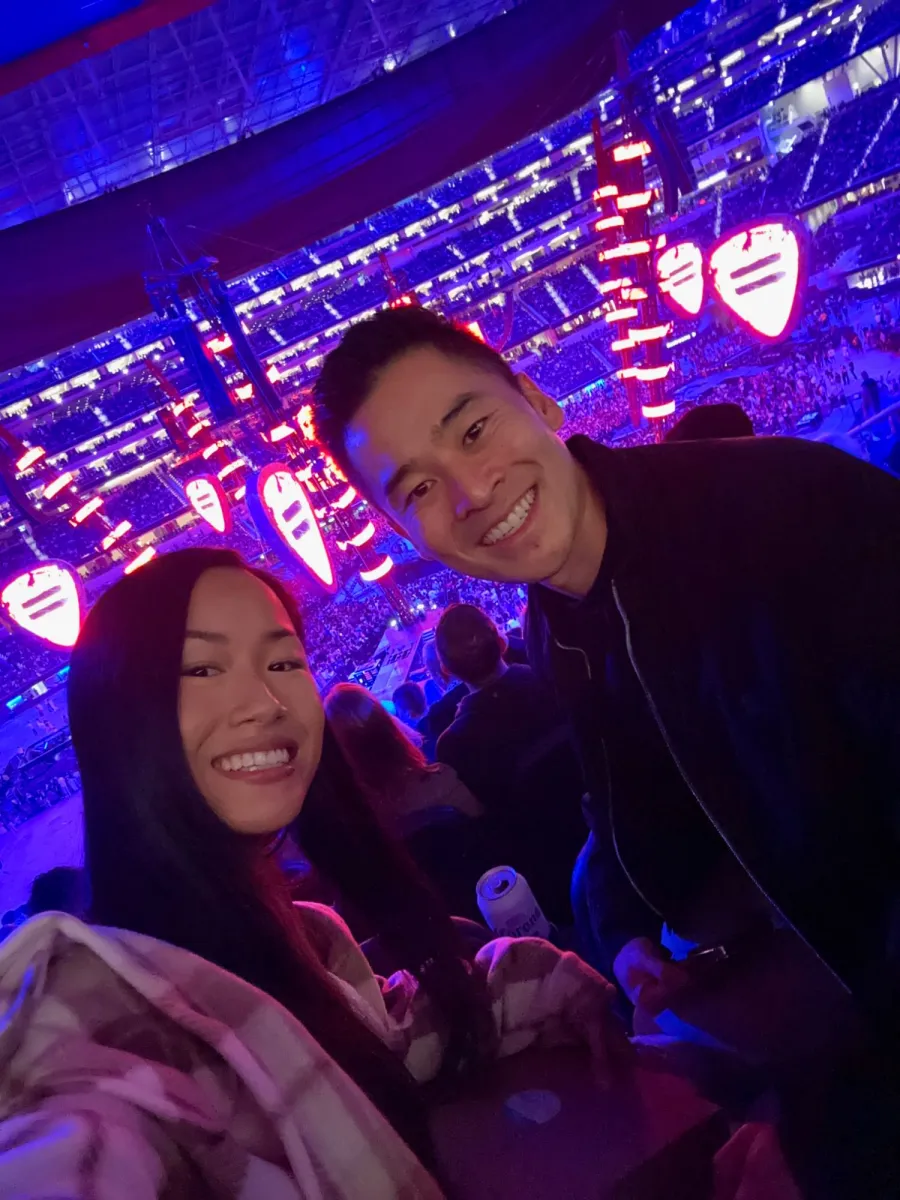
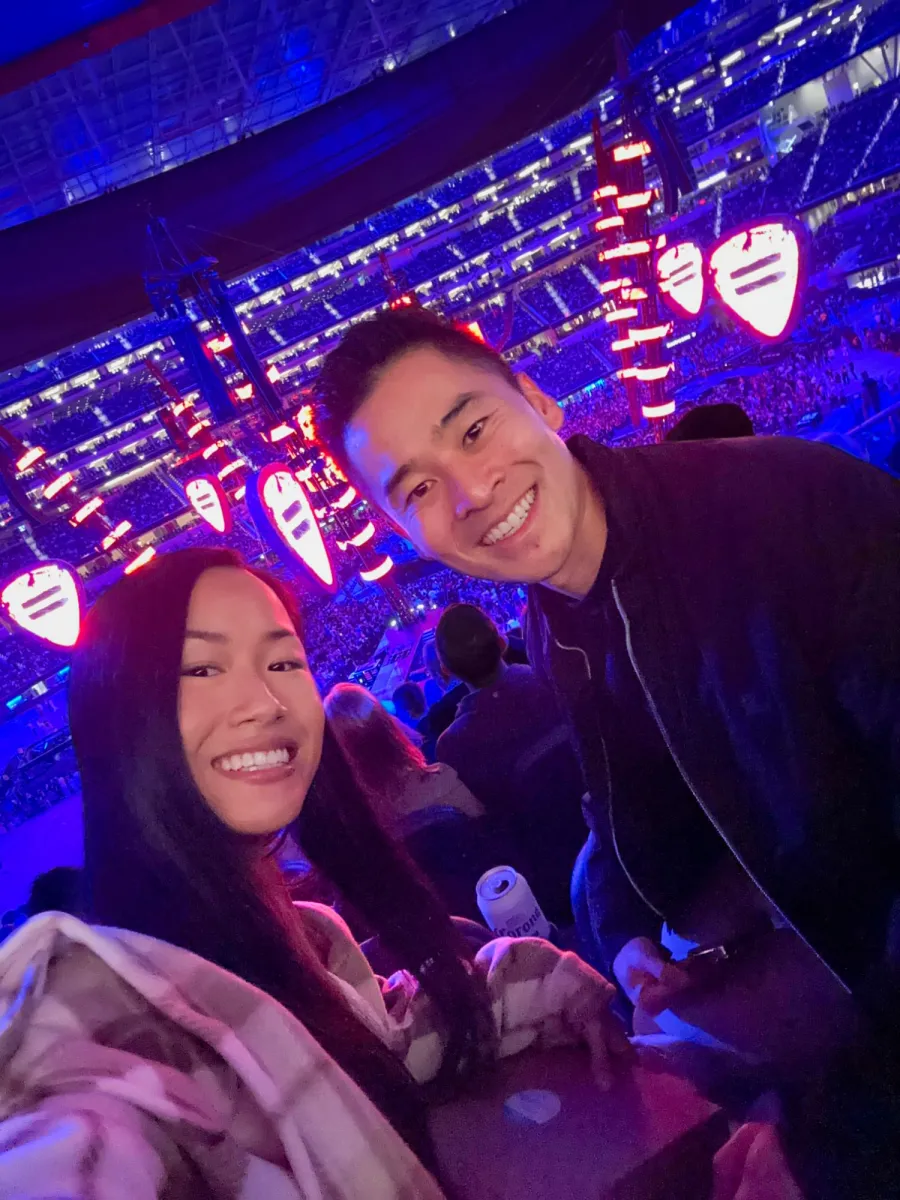
Envelope pocket follows the art's bottom flap so the fold lines meet cleanly; caption reads 'A place to celebrate' in EB Garamond, as does the FAQ intro; welcome party at 5:00 PM, 'Wedding Ceremony' on the map; cat parents art under the countdown; new concert print
Claude-Session: https://claude.ai/code/session_01GqK2ENqeRUwQmtgcSZFd9X

diff --git a/index.html b/index.html
@@ -29,8 +29,8 @@
 <link rel="preload" as="image" href="assets/bali-cliff.webp" imagesrcset="assets/bali-cliff-m.webp 800w, assets/bali-cliff.webp 941w" imagesizes="100vw" fetchpriority="high">
 <link rel="preload" as="image" href="assets/envelope-sealed.webp" fetchpriority="high">
 <link rel="preload" as="image" href="assets/seal.webp" fetchpriority="high">
-<link href="https://fonts.googleapis.com/css2?family=Instrument+Sans:wght@400;500&family=Instrument+Serif:ital@0;1&family=Carattere&family=Roboto+Mono:wght@400;500&display=swap" rel="stylesheet" media="print" onload="this.media='all'">
-<noscript><link href="https://fonts.googleapis.com/css2?family=Instrument+Sans:wght@400;500&family=Instrument+Serif:ital@0;1&family=Carattere&family=Roboto+Mono:wght@400;500&display=swap" rel="stylesheet"></noscript>
+<link href="https://fonts.googleapis.com/css2?family=Instrument+Sans:wght@400;500&family=Instrument+Serif:ital@0;1&family=EB+Garamond:wght@400;500&family=Carattere&family=Roboto+Mono:wght@400;500&display=swap" rel="stylesheet" media="print" onload="this.media='all'">
+<noscript><link href="https://fonts.googleapis.com/css2?family=Instrument+Sans:wght@400;500&family=Instrument+Serif:ital@0;1&family=EB+Garamond:wght@400;500&family=Carattere&family=Roboto+Mono:wght@400;500&display=swap" rel="stylesheet"></noscript>
 <style>
 /* ---------------------------------------------------------------------------
    Tokens
@@ -148,7 +148,7 @@ button,input,select,textarea{font:inherit;color:inherit}
 .cap-top{top:max(8.5%,calc(env(safe-area-inset-top) + 44px))}
 .cap-top::before{content:"";position:absolute;left:50%;top:50%;width:min(96vw,560px);height:150%;transform:translate(-50%,-50%);z-index:-1;
   background:radial-gradient(ellipse at center,rgba(244,239,229,.88) 0%,rgba(244,239,229,.72) 42%,rgba(244,239,229,0) 74%)}
-.cap .caps{display:block;font-family:var(--serif);font-size:clamp(15px,4vw,19px);letter-spacing:.34em;text-transform:uppercase;line-height:1.5;padding-left:.34em}
+.cap .caps{display:block;font-family:'EB Garamond',var(--serif);font-weight:500;font-size:clamp(15px,4vw,19px);letter-spacing:.34em;text-transform:uppercase;line-height:1.5;padding-left:.34em}
 .cap .rule{display:block;width:34px;height:1px;background:var(--husk);margin:.75em auto;opacity:.8}
 .cap .cap-sub{font-size:clamp(13px,3.4vw,15px);letter-spacing:.22em;padding-left:.22em}
 .cap .script{display:block;font-family:var(--script);font-size:clamp(30px,8.6vw,42px);line-height:1;color:var(--ink)}
@@ -235,7 +235,7 @@ button,input,select,textarea{font:inherit;color:inherit}
 .env{width:var(--ew);height:var(--eh);margin-left:calc(var(--ew) / -2);margin-top:calc(var(--eh) / -2)}
 .env-back{z-index:2;background:#E3DBC9;border-radius:6px;box-shadow:0 16px 36px -10px rgba(45,35,20,.42),0 3px 8px rgba(45,35,20,.16)}
 .env-pocket{z-index:3;border-radius:6px;overflow:hidden;background:#EDE6D8 center/100% 100% no-repeat;
-  clip-path:polygon(0 0,49.96% 60.96%,100% 0,100% 100%,0 100%);-webkit-clip-path:polygon(0 0,49.96% 60.96%,100% 0,100% 100%,0 100%)}
+  clip-path:polygon(0 0,45.26% 55.27%,50% 50.63%,54.74% 55.27%,100% 0,100% 100%,0 100%);-webkit-clip-path:polygon(0 0,45.26% 55.27%,50% 50.63%,54.74% 55.27%,100% 0,100% 100%,0 100%)}
 .env-pocket .addr{
   position:absolute;left:8%;right:44%;bottom:7%;text-align:center;
   font-family:var(--script);font-size:clamp(19px,5.2vw,26px);color:#6B6558;
@@ -484,6 +484,7 @@ html.has-lightbox{overflow:hidden}
 
 /* The date */
 .date-grid{display:grid;gap:clamp(24px,5vw,44px);align-items:start}
+.date-art{display:block;width:min(78%,420px);height:auto;margin:clamp(18px,3vh,30px) auto .4em}
 .countdown{display:grid;grid-template-columns:repeat(3,minmax(0,1fr));gap:12px;max-width:360px;margin-top:.4em}
 /* quiet links: calendar, directions */
 .quiet-links{margin:.7em 0 1.5em;display:flex;flex-wrap:wrap;justify-content:center;gap:.6em 1.5em}
@@ -608,7 +609,7 @@ html.has-lightbox{overflow:hidden}
 .fq-head .script-line{font-size:max(34px,calc(var(--pw2) * .08))}
 .fq-head .mt-rule{width:calc(var(--pw2) * .72);max-width:calc(100% - 8px);margin:.45em auto .6em}
 .fq-head .mt-rule::after{width:18px;height:18px;top:-9px;border-radius:0;background:var(--bloom) center/contain no-repeat}
-.fq-sub{font-family:var(--serif);font-size:max(13px,calc(var(--pw2) * .019));letter-spacing:.16em;text-transform:uppercase;line-height:1.65;max-width:none;margin:0 auto;padding-left:.16em}
+.fq-sub{font-family:'EB Garamond',var(--serif);font-weight:500;font-size:max(13px,calc(var(--pw2) * .019));letter-spacing:.16em;text-transform:uppercase;line-height:1.65;max-width:none;margin:0 auto;padding-left:.16em}
 .fq-list{list-style:none;margin:0;padding:0;text-align:left}
 .fq{position:relative;display:grid;grid-template-columns:32% 1fr;gap:calc(var(--pw2) * .035);align-items:center;padding:calc(var(--pw2) * .028) 0;border-top:1px solid rgba(155,139,87,.35)}
 .fq:first-child{border-top:0}
@@ -711,7 +712,7 @@ html.has-lightbox{overflow:hidden}
       <div class="scrim scrim-bottom" id="scrimBottom" aria-hidden="true"></div>
 
 
-      <div class="cap cap-top" id="capTop" aria-hidden="true"><span class="caps">A journey<br>to forever</span><i class="rule"></i><span class="script">Bali, Indonesia</span><i class="rule"></i><span class="caps cap-sub">You’re invited · August 28, 2027</span></div>
+      <div class="cap cap-top" id="capTop" aria-hidden="true"><span class="caps">A place<br>to celebrate</span><i class="rule"></i><span class="script">Bali, Indonesia</span><i class="rule"></i><span class="caps cap-sub">You’re invited · August 28, 2027</span></div>
 
 
       <!-- Envelope, open: back, pocket, flap. Same transform on all. -->
@@ -745,7 +746,7 @@ html.has-lightbox{overflow:hidden}
 
       <!-- Passport -->
       <div class="piece pc-book" id="pcBook"><div class="passport" id="passport">
-        <div class="pp-page pp-art art-itin pp-base" role="img" aria-label="August 27: welcome party at Rock Bar from 5:30 PM, with our tea ceremony at 6:00 PM, then drinks and dinner with cliffside views. August 28: wedding ceremony, reception."></div>
+        <div class="pp-page pp-art art-itin pp-base" role="img" aria-label="August 27: welcome party at Rock Bar from 5:00 PM, with our tea ceremony at 6:00 PM, then drinks and dinner with cliffside views. August 28: wedding ceremony, reception."></div>
         <div class="pp-leaf" data-leaf="1">
           <div class="pp-page leaf-front">
           <div class="pp-head">
@@ -870,6 +871,7 @@ html.has-lightbox{overflow:hidden}
           <div><b id="cdM">—</b><span>min</span></div>
         </div>
       </div>
+      <img class="date-art" data-src="assets/cat-parents.webp" alt="Two cats, a tabby and a white one with bows, sitting tail-in-tail on vintage suitcases beside a passport, a boarding pass, a pocket watch, two gold rings and frangipani, with a luggage tag reading Cat parents for life." width="900" height="805" loading="lazy" decoding="async">
       <p class="muted" style="max-width:36ch;margin-left:auto;margin-right:auto">Friday the 27th is the welcome party at Rock Bar, with our tea ceremony at six. Saturday the 28th is the ceremony and reception on the cliff. Sunday is yours.</p>
     </div>
   </div>
@@ -901,7 +903,7 @@ html.has-lightbox{overflow:hidden}
       <div class="mp-ev" id="mev1">
         <img class="mp mp-ill" data-src="assets/map-e1.webp" style="left:0.25%;top:6.97%;width:50.38%" alt="Cocktails and a lantern on the cliff terrace at Rock Bar, the sun setting over the sea." loading="lazy" decoding="async">
         <span class="mp-badge" style="left:7.43%;top:15.49%">01</span>
-        <div class="mp-text" style="left:3.5%;top:27.2%;width:44%"><b>August 27</b><b>5:30&nbsp;PM</b><i class="mt-rule"></i><strong>Welcome Party</strong><small>at Rock Bar</small></div>
+        <div class="mp-text" style="left:3.5%;top:27.2%;width:44%"><b>August 27</b><b>5:00&nbsp;PM</b><i class="mt-rule"></i><strong>Welcome Party</strong><small>at Rock Bar</small></div>
       </div>
       <div class="mp-ev" id="mev2">
         <img class="mp mp-ill" data-src="assets/map-e2.webp" style="left:53.15%;top:31.84%;width:32.75%" alt="A red and gold Chinese tea set with cherry blossom." loading="lazy" decoding="async">
@@ -911,7 +913,7 @@ html.has-lightbox{overflow:hidden}
       <div class="mp-ev" id="mev3">
         <img class="mp mp-ill" data-src="assets/map-e3.webp" style="left:36.78%;top:54.44%;width:49.12%" alt="A flower-covered arch and white chairs above the ocean at sunset." loading="lazy" decoding="async">
         <span class="mp-badge" style="left:38.92%;top:54.94%">03</span>
-        <div class="mp-text" style="left:41%;top:68.2%;width:42%"><b>August 28</b><b>4:30&nbsp;PM</b><i class="mt-rule"></i><strong>Ceremony</strong><small>AYANA SKY</small></div>
+        <div class="mp-text" style="left:41%;top:68.2%;width:42%"><b>August 28</b><b>4:30&nbsp;PM</b><i class="mt-rule"></i><strong>Wedding Ceremony</strong><small>AYANA SKY</small></div>
       </div>
       <div class="mp-ev" id="mev4">
         <img class="mp mp-ill" data-src="assets/map-e4.webp" style="left:58.5%;top:71.2%;width:38.5%" alt="A candlelit dinner table under hanging lanterns and flowers." loading="lazy" decoding="async">
@@ -1095,7 +1097,7 @@ html.has-lightbox{overflow:hidden}
       <p>Thank you. Your reply is in, and we'll be in touch with booking details for the estate and a few notes on getting to Bali.</p>
       <span class="confirm-lead">Save the weekend</span>
       <p class="quiet-links">
-        <a class="qlink" href="https://calendar.google.com/calendar/render?action=TEMPLATE&amp;text=Ashley+%26+Charles+%C2%B7+Wedding+weekend+in+Bali&amp;dates=20270827T093000Z%2F20270828T150000Z&amp;ctz=Asia%2FMakassar&amp;location=AYANA+Bali%2C+Jimbaran%2C+Bali%2C+Indonesia&amp;details=Friday+Aug+27%2C+5%3A30+PM%3A+welcome+party+at+Rock+Bar+(tea+ceremony+at+6%3A00+PM).%0ASaturday+Aug+28%2C+4%3A30+PM%3A+ceremony+at+AYANA+SKY%2C+then+dinner+and+dancing.%0Ahttps%3A%2F%2Fctaira.github.io" target="_blank" rel="noopener">Google Calendar</a>
+        <a class="qlink" href="https://calendar.google.com/calendar/render?action=TEMPLATE&amp;text=Ashley+%26+Charles+%C2%B7+Wedding+weekend+in+Bali&amp;dates=20270827T090000Z%2F20270828T150000Z&amp;ctz=Asia%2FMakassar&amp;location=AYANA+Bali%2C+Jimbaran%2C+Bali%2C+Indonesia&amp;details=Friday+Aug+27%2C+5%3A00+PM%3A+welcome+party+at+Rock+Bar+(tea+ceremony+at+6%3A00+PM).%0ASaturday+Aug+28%2C+4%3A30+PM%3A+ceremony+at+AYANA+SKY%2C+then+dinner+and+dancing.%0Ahttps%3A%2F%2Fctaira.github.io" target="_blank" rel="noopener">Google Calendar</a>
         <a class="qlink" id="icsLink" href="#" download="ashley-and-charles-bali.ics">Apple / Outlook</a>
         <a class="qlink" href="https://www.google.com/maps/search/?api=1&amp;query=AYANA+Resort+Bali%2C+Jimbaran" target="_blank" rel="noopener">Directions</a>
       </p>
@@ -1271,8 +1273,8 @@ var RSVP_ENDPOINT = "";
       T_HOLD = T_BOOK + (mobileSpread ? 12000 : 8400); END = T_HOLD; DIVE = END + 1000;   /* the film rests at END until the guest goes on */
       CPS = [0, T_TICKET, T_BOOK, T_PAGES, T_HOLD];
       var envTop = envY - eh / 2;
-      /* the pocket's edge: a V from the envelope's top corners down to the notch */
-      V = { lx: -ew / 2, ly: envTop, nx: -ew * .0004, ny: envTop + eh * .6096, rx: ew / 2, ry: envTop };
+      /* the pocket's edge: from the top corners down the side flaps to where the bottom flap's edges cross them, then up to the bottom flap's tip */
+      V = { lx: -ew / 2, ly: envTop, ax: -ew * .0474, ay: envTop + eh * .5527, nx: 0, ny: envTop + eh * .5063, bx: ew * .0474, by: envTop + eh * .5527, rx: ew / 2, ry: envTop };
       var tw = ew * .92, th = tw * .4374, pw0 = ew * .60, ph0 = pw0 * 1.16, s0 = ew * .50 / ppW;
       /* where each rests once the flap is open (sealed, each sits lower, wholly inside), where it is held, and how far it sinks when sealed */
       PH = piece(pcPhoto, polaroid, pw0, ph0, { x: ew * .07, y: envTop - eh * .16 + ph0 / 2, s: 1, r: 2 }, { x: 0, y: -vh * .03, s: Math.min(1.4, (vw - 24) / pw0, vh * .62 / ph0), r: 0 }, envTop, eh * .20);
@@ -1298,7 +1300,7 @@ var RSVP_ENDPOINT = "";
       if (r >= 1) { if (p.el.style.clipPath !== 'none') p.el.style.clipPath = 'none'; return; }
       var rel = r * (p.bh * s + eh), big = 6 * (p.bw + p.bh);
       function pt(sx, sy) { return ((sx - x) / s + p.bw / 2).toFixed(1) + 'px ' + ((sy + rel - y) / s + p.bh / 2).toFixed(1) + 'px'; }
-      p.el.style.clipPath = 'polygon(-' + big + 'px -' + big + 'px,' + big + 'px -' + big + 'px,' + pt(V.rx + big, V.ry) + ',' + pt(V.rx, V.ry) + ',' + pt(V.nx, V.ny) + ',' + pt(V.lx, V.ly) + ',' + pt(V.lx - big, V.ly) + ')';
+      p.el.style.clipPath = 'polygon(-' + big + 'px -' + big + 'px,' + big + 'px -' + big + 'px,' + pt(V.rx + big, V.ry) + ',' + pt(V.rx, V.ry) + ',' + pt(V.bx, V.by) + ',' + pt(V.nx, V.ny) + ',' + pt(V.ax, V.ay) + ',' + pt(V.lx, V.ly) + ',' + pt(V.lx - big, V.ly) + ')';
     }
     /* one piece over time: lifted over `up` ms, held for `hold` (with the slowest of zooms), set back over `back` */
     function lift(t, t0, up, hold, back) {
@@ -1774,9 +1776,9 @@ var RSVP_ENDPOINT = "";
   (function () {
     var a = $('icsLink'); if (!a) return;
     var lines = ['BEGIN:VCALENDAR', 'VERSION:2.0', 'PRODID:-//Ashley and Charles//Bali 2027//EN', 'CALSCALE:GREGORIAN', 'METHOD:PUBLISH', 'BEGIN:VEVENT',
-      'UID:ashley-charles-bali-2027@ctaira.github.io', 'DTSTAMP:20260914T000000Z', 'DTSTART:20270827T093000Z', 'DTEND:20270828T150000Z',
+      'UID:ashley-charles-bali-2027@ctaira.github.io', 'DTSTAMP:20260914T000000Z', 'DTSTART:20270827T090000Z', 'DTEND:20270828T150000Z',
       'SUMMARY:Ashley & Charles · Wedding weekend in Bali', 'LOCATION:AYANA Bali\\, Jimbaran\\, Bali\\, Indonesia',
-      'DESCRIPTION:Friday Aug 27\\, 5:30 PM: welcome party at Rock Bar (tea ceremony at 6:00 PM).\\nSaturday Aug 28\\, 4:30 PM: ceremony at AYANA SKY\\, then dinner and dancing.\\nhttps://ctaira.github.io',
+      'DESCRIPTION:Friday Aug 27\\, 5:00 PM: welcome party at Rock Bar (tea ceremony at 6:00 PM).\\nSaturday Aug 28\\, 4:30 PM: ceremony at AYANA SKY\\, then dinner and dancing.\\nhttps://ctaira.github.io',
       'URL:https://ctaira.github.io', 'END:VEVENT', 'END:VCALENDAR'];
     a.href = 'data:text/calendar;charset=utf-8,' + encodeURIComponent(lines.join('\r\n') + '\r\n');
   })();
